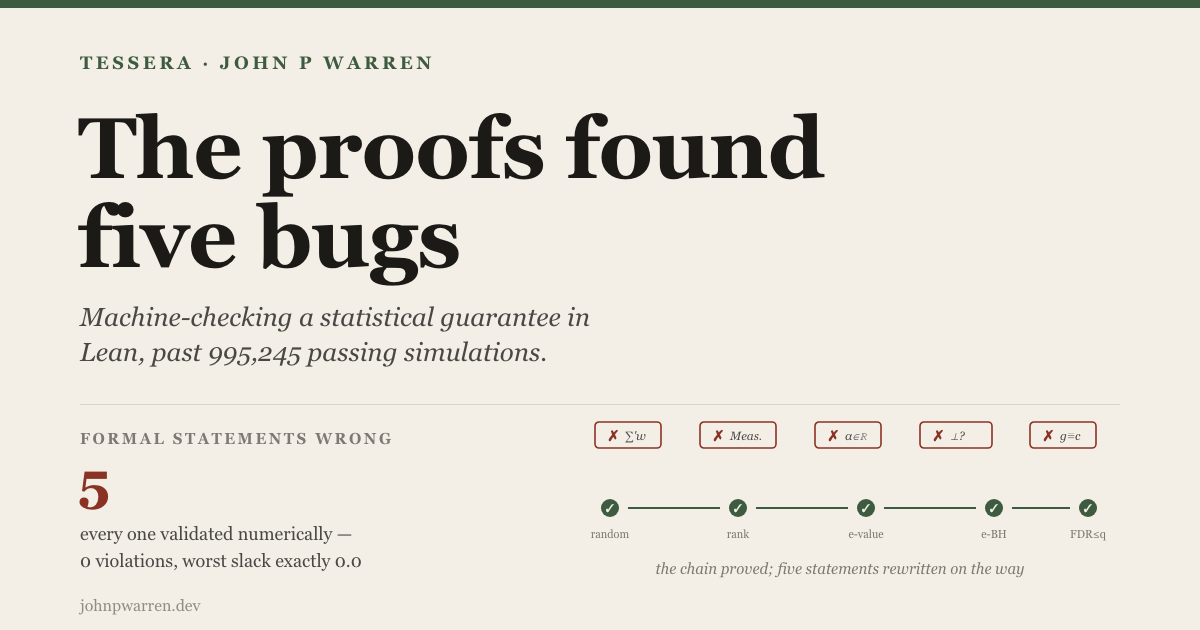
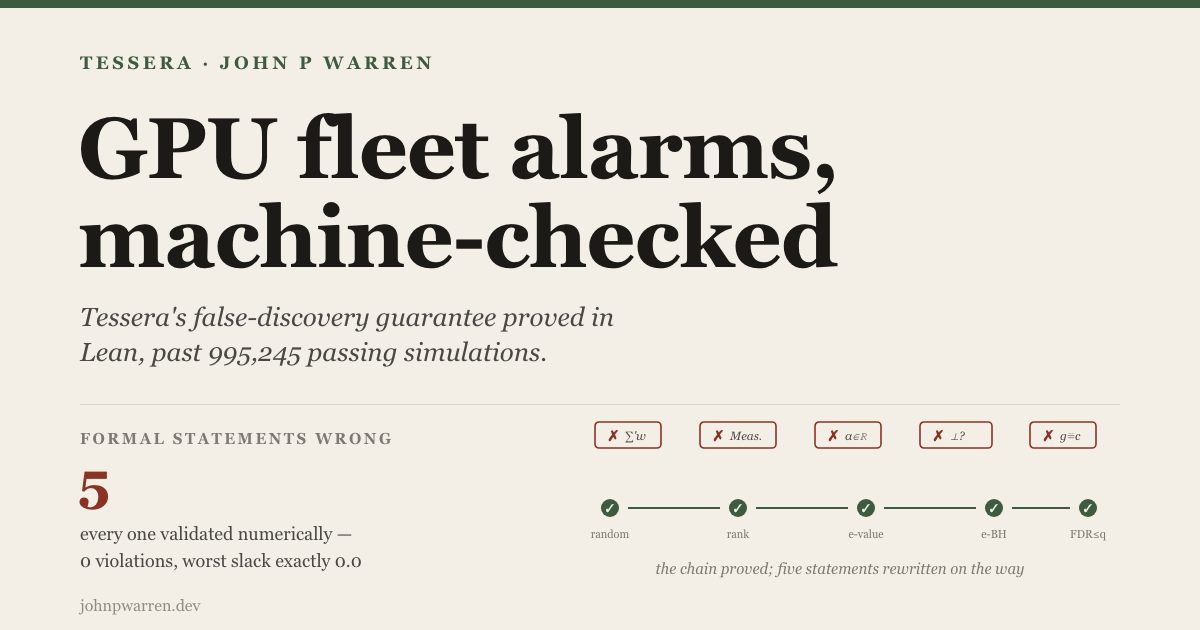
edit: lead with the fleet, not the project
Title: 'a machine-checked false-alarm guarantee for GPU fleets'. Opening
paragraph now starts from the thousand-verdicts-per-tick problem and the
defined-FDR design goal; the five bugs move to the second beat. Hero headline
'GPU fleet alarms, machine-checked'; LinkedIn hook reframed to the pager bound
('a machine-checked bound on how often that page is false').

Changed region(s): [[0.0617, 0.181, 0.7092, 0.4524], [0.0617, 0.4825, 0.5242, 0.5429]]

diff --git a/src/content/blog/tessera-lean.md b/src/content/blog/tessera-lean.md
@@ -1,11 +1,11 @@
 ---
-title: 'Tessera: the proofs found five bugs the simulations passed'
-description: 'We machine-checked the statistical guarantee chain behind Tessera in Lean. No new mathematics came out. Five wrong formal statements did.'
+title: 'Tessera: a machine-checked false-alarm guarantee for GPU fleets'
+description: 'Fleet monitors page people on statistical evidence. Tessera''s false-discovery-rate guarantee is now proved end to end in Lean — and the proofs found five wrong statements that 995,245 passing simulations missed.'
 pubDate: 'Jul 27 2026'
 heroImage: '/og/og_tessera_lean.png'
 ---
 
-The [previous Tessera post](/blog/tessera/) ended on e-BH, the false-discovery-rate procedure that keeps a thousand concurrent shard verdicts from drowning an operator in false alarms. This post is about what happened when we machine-checked that machinery in a theorem prover: the whole chain, from the randomized experiment design at the bottom to the FDR bound at the top.
+A thousand-shard GPU cluster produces a thousand concurrent health verdicts every tick, and every verdict can page a human. Most monitoring stacks manage the resulting false alarms with tuned thresholds; Tessera's design goal has been a *defined* false-alarm budget — a false-discovery-rate bound that holds across all verdicts at once, which is where the [previous post](/blog/tessera/) ended. This post is about what happened when we machine-checked that guarantee in a theorem prover: the whole chain, from the randomized experiment design at the bottom to the FDR bound at the top.
 
 The result was not new mathematics. Every theorem in the chain was already known. What the prover produced instead was an audit finding: five of our formal statements of that known mathematics were wrong, and the numerical validation we ran on each of them had passed every one.
 

diff --git a/linkedin/2026-07-tessera-lean.md b/linkedin/2026-07-tessera-lean.md
@@ -8,9 +8,9 @@ same style as the runway/ballast diagram.)
 
 ---
 
-We ran 995,245 numerical checks on our statistical guarantee. All passed. Then a theorem prover read the fine print and found five of our formal statements were wrong.
+A GPU-fleet monitor pages a human on statistical evidence. Ours now carries a machine-checked bound on how often that page is false.
 
-TL;DR: We machine-checked the false-discovery guarantee behind Tessera (our GPU-fleet fault detector) in the Lean theorem prover, end to end. No new math came out. What came out: five wrong formal statements that heavy simulation had validated as fine, and a sharper understanding of what our guarantee actually says. Full write-up: [link].
+TL;DR: We proved the false-discovery-rate guarantee behind Tessera (our GPU-fleet fault detector) in the Lean theorem prover, end to end — from the randomized probe design to the alarm bound. No new math came out. What came out: five wrong formal statements that 995,245 passing simulations had validated as fine, and a sharper statement of what a fleet's alarm budget can actually promise. Full write-up: [link].
 
 The chain we proved runs from experiment design to error control: randomized probe placement gives exchangeability (any ordering of healthy peers is equally likely), which makes each unit's rank among its peers exactly uniform, which a calibration step turns into an e-value (a score that averages at most 1 when nothing is wrong), which the e-BH procedure turns into a false-discovery-rate bound that holds under arbitrary dependence. Every theorem in that chain was already known. As far as I could find, none had ever been machine-checked, in any proof assistant.
 
